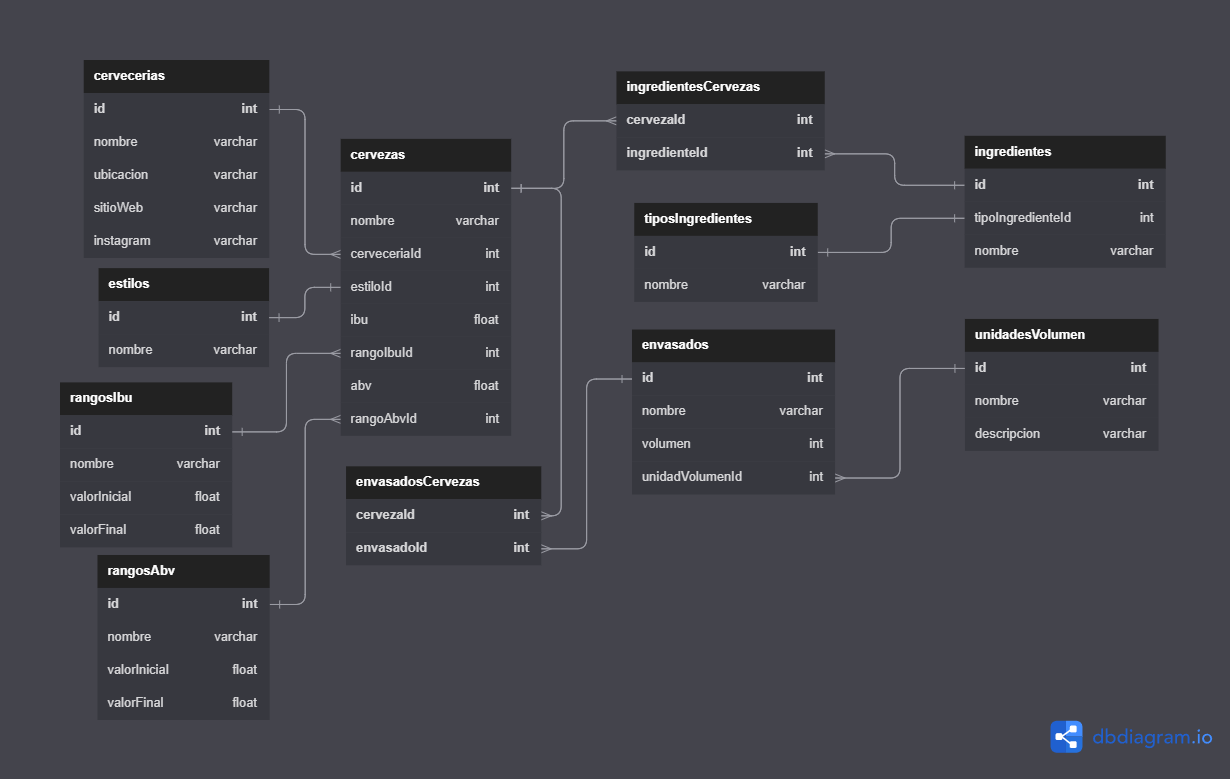
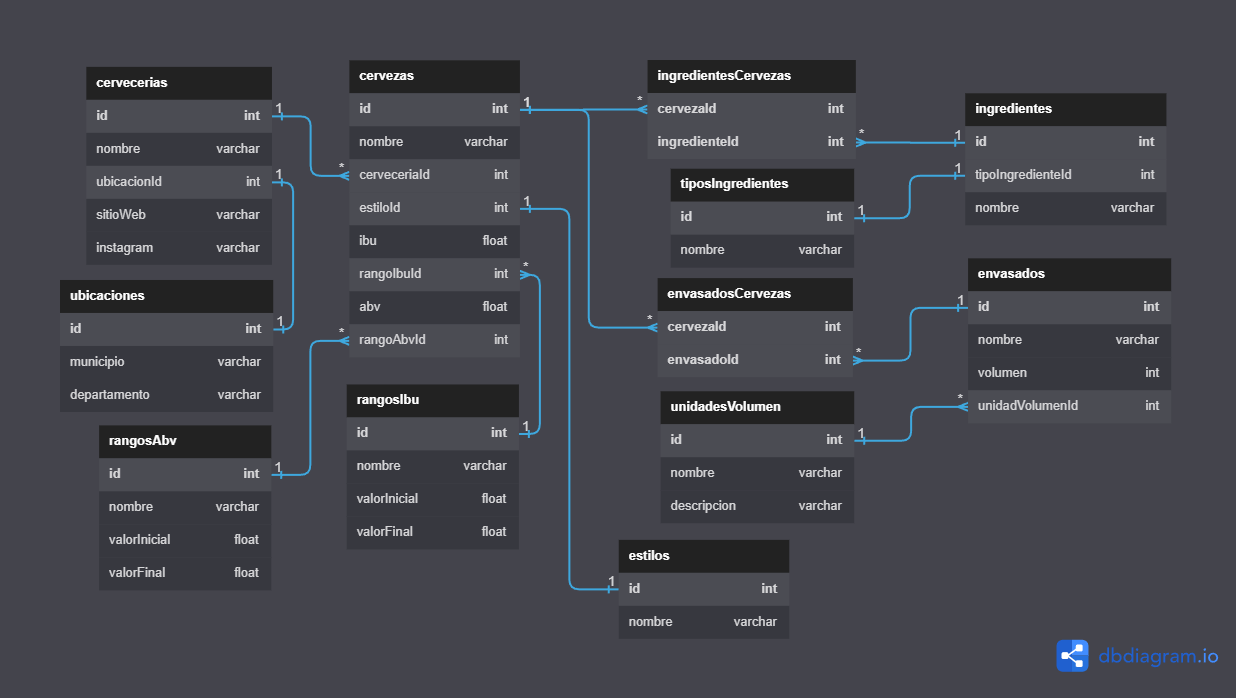
Agregados CSV iniciales para ubicaciones, rangosIbu, rangosAbv y cervezas

diff --git a/README.md b/README.md
@@ -1,2 +1,27 @@
 # CervezasArtesanalesColombia
-Aplicaciones usando .NET framework para demostrar conectividad a SQLite, PostgreSQL y MongoDB
+
+For the english version of this readme file, scroll past the spanish version! ;-)
+
+Aplicaciones usando .NET framework para demostrar conectividad a SQLite, PostgreSQL y MongoDB.
+
+Por favor tenga presente:
+
+- Es un proyecto académico que pretende evolucionar el aprendizaje de conceptos relacionados con bases de datos. Esta no es una aplicación "lista para producción".
+
+- Toda la información almacenada en las tablas y colecciones de las bases de datos es información pública disponible en los sitios web de las cervecerías. No es 100% confiable y no pretende serlo.
+
+- Puede clonar el repositorio e inclusive proponer mejoras a través de issues, pero no necesariamente serán implementadas en el tiempo asignado para el curso. Siempre será un trabajo en constante modificación
+
+
+# Craft Beers Colombia
+
+Apps using .NET framework to demo database connectivity using SQLite, PostgreSQL and MongoDB.
+
+Please keep in mind:
+
+- This is an academic project that aims to evolve the learning of concepts related to databases. This is not a "production ready" application.
+
+- All information stored in the tables and collections of the databases is public information available on the breweries' websites. It is not 100% reliable and it does not claim to be.
+
+- You can clone the repository and even propose improvements through github issues, but they will not necessarily be implemented in the time allotted for the course. It will always be a Work in progress.
+
